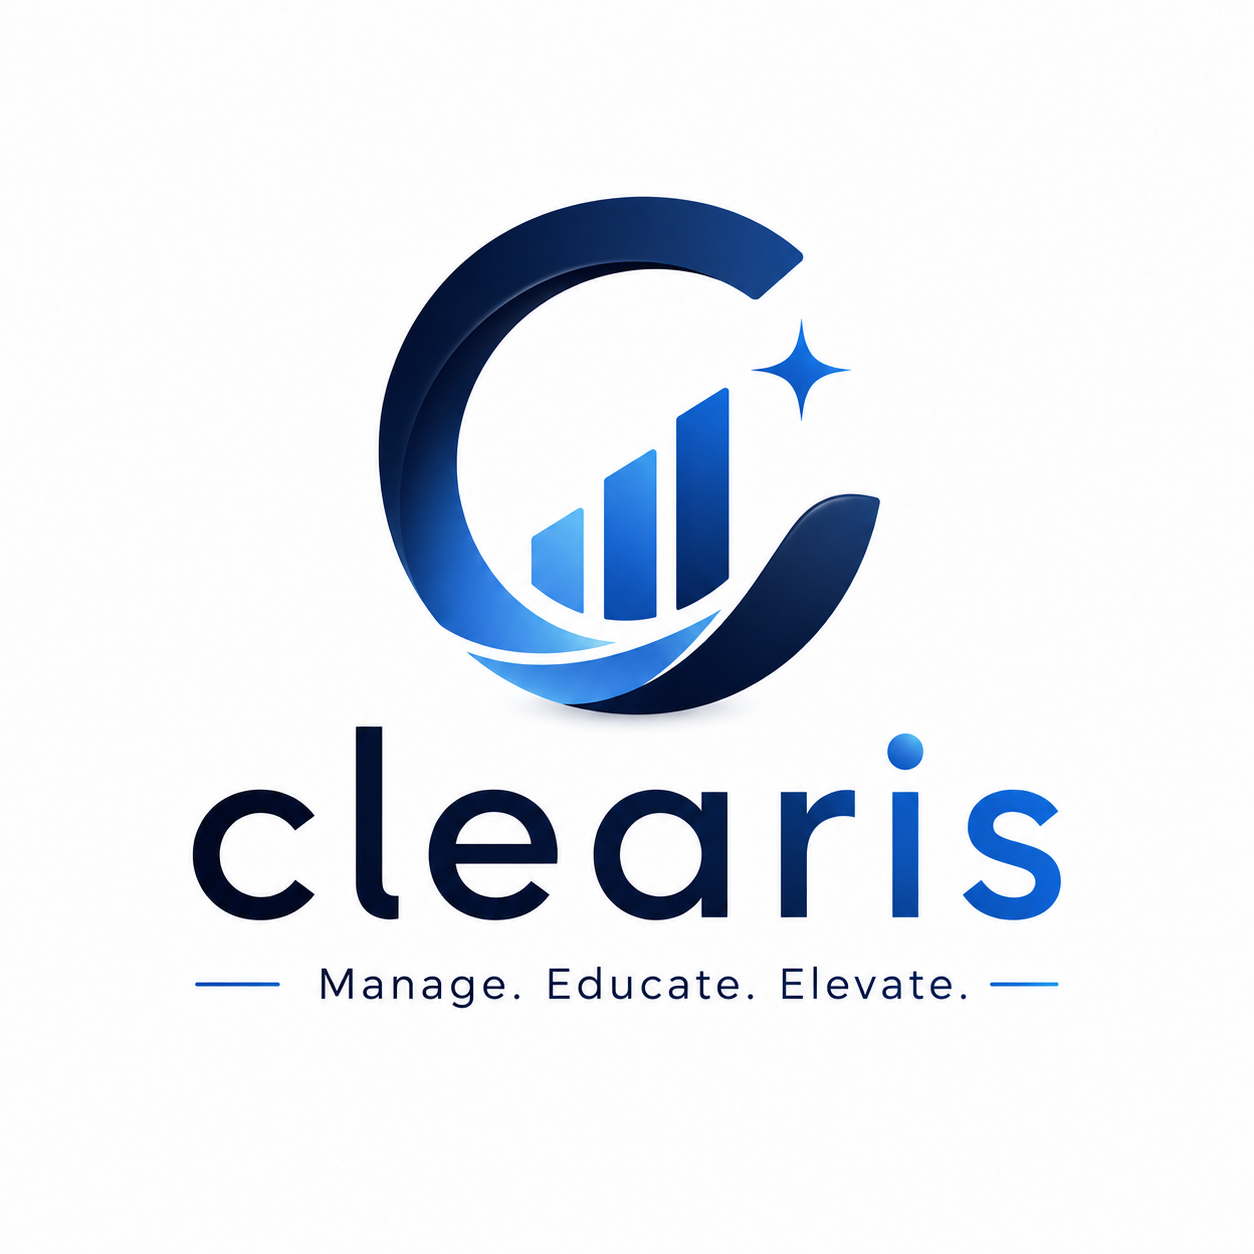
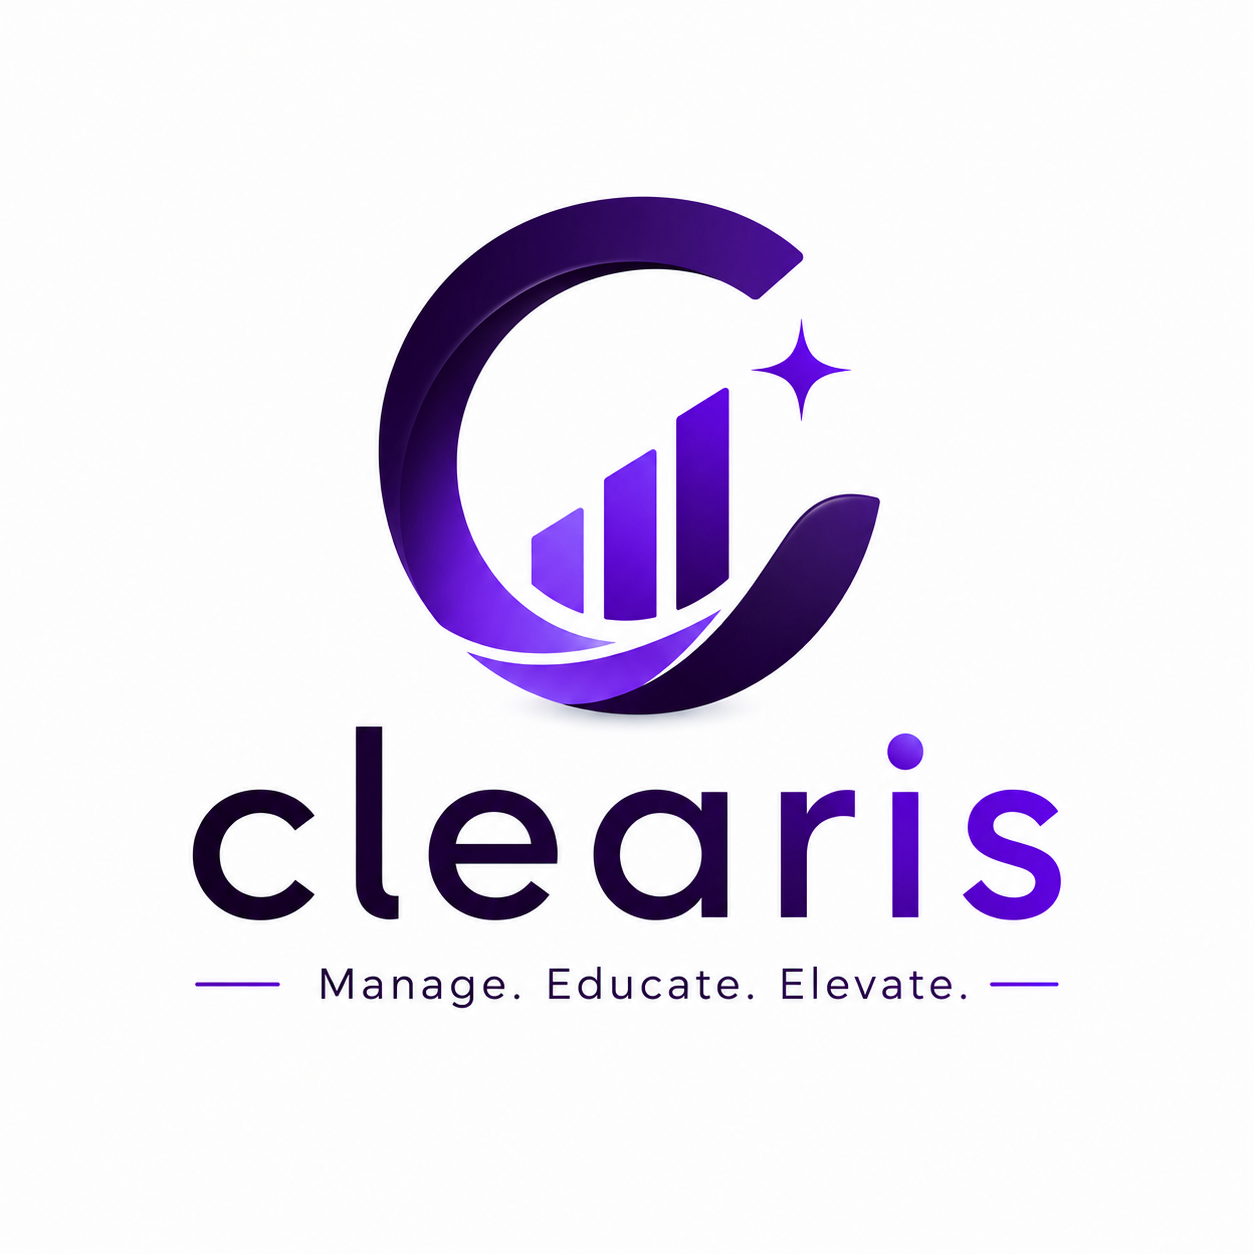
feat: rebrand Clearis to toxic violet on soft chrome
The brand was still the old institutional blue, which read as generic and made
the accent (already violet) fight the primary. Primary is now an electric
violet with cool chrome neutrals, so hover surfaces and edges carry the
"softchrome" half of the palette while violet does the signalling. The logo
marks were rendered in the old blue, so their hue was remapped onto the new
anchor — same dimensions, shading and alpha, different colour.

🤖 Generated with Codebuff

diff --git a/apps/web/src/app/globals.css b/apps/web/src/app/globals.css
@@ -4,53 +4,53 @@
 
 @layer base {
   :root {
-    /* ─── Premium Light Mode — Sophisticated Neutrals ─── */
+    /* ─── Premium Light Mode — Soft Chrome ─── */
     --background: 0 0% 100%;
-    --background-subtle: 240 10% 98%;
-    --background-muted: 240 10% 96%;
-    --foreground: 240 12% 12%;
-    --foreground-secondary: 240 8% 30%;
-    --foreground-tertiary: 240 6% 42%;
-    --foreground-muted: 240 5% 56%;
+    --background-subtle: 218 24% 98%;
+    --background-muted: 218 22% 96%;
+    --foreground: 224 24% 11%;
+    --foreground-secondary: 224 14% 30%;
+    --foreground-tertiary: 224 10% 43%;
+    --foreground-muted: 222 9% 56%;
 
     /* ─── Surfaces ─── */
     --card: 0 0% 100%;
-    --card-foreground: 240 12% 12%;
+    --card-foreground: 224 24% 11%;
 
-    /* ─── Brand — Strategic Clearis Blue ─── */
-    --primary: 221 83% 50%;
+    /* ─── Brand — Toxic Violet ─── */
+    --primary: 262 84% 52%;
     --primary-foreground: 0 0% 100%;
-    --primary-hover: 221 83% 45%;
-    --primary-subtle: 221 83% 96%;
-    --primary-border: 221 83% 88%;
+    --primary-hover: 262 84% 46%;
+    --primary-subtle: 262 90% 96%;
+    --primary-border: 262 84% 88%;
 
-    /* ─── Secondary ─── */
-    --secondary: 240 8% 94%;
-    --secondary-foreground: 240 12% 12%;
-    --secondary-hover: 240 8% 90%;
-    --secondary-border: 240 8% 80%;
+    /* ─── Secondary — Chrome ─── */
+    --secondary: 218 20% 94%;
+    --secondary-foreground: 224 24% 11%;
+    --secondary-hover: 218 20% 90%;
+    --secondary-border: 218 18% 80%;
 
     /* ─── Muted ─── */
-    --muted: 240 8% 94%;
-    --muted-foreground: 240 8% 32%;
-    --muted-hover: 240 8% 90%;
+    --muted: 218 20% 95%;
+    --muted-foreground: 224 12% 34%;
+    --muted-hover: 218 20% 91%;
 
-    /* ─── Accent ─── */
-    --accent: 270 70% 60%;
-    --accent-foreground: 0 0% 100%;
-    --accent-hover: 270 70% 55%;
-    --accent-subtle: 270 70% 96%;
+    /* ─── Accent — Soft Chrome highlight (hover surfaces) ─── */
+    --accent: 218 22% 90%;
+    --accent-foreground: 224 24% 20%;
+    --accent-hover: 218 22% 85%;
+    --accent-subtle: 218 24% 96%;
 
     /* ─── Destructive ─── */
-    --destructive: 0 84% 60%;
+    --destructive: 0 84% 58%;
     --destructive-foreground: 0 0% 100%;
-    --destructive-hover: 0 84% 55%;
+    --destructive-hover: 0 84% 52%;
 
     /* ─── Semantic ─── */
-    --success: 142 71% 45%;
+    --success: 152 62% 40%;
     --success-foreground: 0 0% 100%;
-    --success-subtle: 142 71% 96%;
-    --success-border: 142 71% 88%;
+    --success-subtle: 152 62% 96%;
+    --success-border: 152 62% 87%;
 
     --warning: 38 92% 50%;
     --warning-foreground: 0 0% 100%;
@@ -62,42 +62,42 @@
     --error-subtle: 0 84% 96%;
     --error-border: 0 84% 88%;
 
-    --info: 217 91% 60%;
+    --info: 210 90% 52%;
 
-    /* ─── Borders & Inputs ─── */
-    --border: 240 10% 84%;
-    --border-strong: 240 10% 70%;
-    --border-subtle: 240 10% 90%;
-    --input: 240 10% 80%;
-    --ring: 221 83% 53%;
+    /* ─── Borders & Inputs — Chrome edge ─── */
+    --border: 218 18% 85%;
+    --border-strong: 218 16% 70%;
+    --border-subtle: 218 20% 91%;
+    --input: 218 18% 80%;
+    --ring: 262 84% 55%;
 
     /* ─── Radius — Restrained ─── */
     --radius: 0.5rem;
 
     /* ─── Rail — Elegant Slim Bar ─── */
-    --rail: 240 10% 98%;
-    --rail-foreground: 240 12% 12%;
-    --rail-muted: 240 8% 32%;
-    --rail-active-bg: 221 83% 53%;
+    --rail: 218 24% 98%;
+    --rail-foreground: 224 24% 11%;
+    --rail-muted: 224 12% 34%;
+    --rail-active-bg: 262 84% 52%;
     --rail-active-fg: 0 0% 100%;
-    --rail-border: 240 10% 84%;
+    --rail-border: 218 18% 85%;
 
     /* ─── Panel — Clean Expandable Nav ─── */
     --panel: 0 0% 100%;
-    --panel-foreground: 240 12% 12%;
-    --panel-muted: 240 8% 32%;
-    --panel-border: 240 10% 84%;
-    --panel-hover: 240 10% 94%;
-    --panel-active-bg: 221 83% 53%;
+    --panel-foreground: 224 24% 11%;
+    --panel-muted: 224 12% 34%;
+    --panel-border: 218 18% 85%;
+    --panel-hover: 218 22% 94%;
+    --panel-active-bg: 262 84% 52%;
     --panel-active-fg: 0 0% 100%;
 
-    /* ─── Charts — Premium Palette ─── */
-    --chart-1: 221 83% 53%;
-    --chart-2: 142 71% 45%;
+    /* ─── Charts — Violet anchor, chrome cool-down ─── */
+    --chart-1: 262 84% 55%;
+    --chart-2: 152 62% 42%;
     --chart-3: 38 92% 50%;
-    --chart-4: 346 77% 50%;
-    --chart-5: 280 65% 60%;
-    --chart-6: 199 89% 48%;
+    --chart-4: 330 78% 55%;
+    --chart-5: 285 78% 60%;
+    --chart-6: 200 82% 48%;
 
     /* ─── Light Mode Shadows — Subtle for elevation ─── */
     --shadow-sm: 0 1px 2px 0 rgba(0, 0, 0, 0.08);
@@ -114,15 +114,15 @@
   }
 
   .dark {
-    /* ─── Premium Dark Mode — Deep & Elegant ─── */
-    --background: 240 10% 7%;
-    --background-subtle: 240 10% 9%;
-    --background-muted: 240 10% 11%;
-    --background-elevated: 240 10% 13%;
-    --foreground: 240 10% 98%;
-    --foreground-secondary: 240 8% 82%;
-    --foreground-tertiary: 240 6% 68%;
-    --foreground-muted: 240 5% 50%;
+    /* ─── Premium Dark Mode — Deep Chrome ─── */
+    --background: 224 24% 7%;
+    --background-subtle: 224 24% 9%;
+    --background-muted: 224 22% 11%;
+    --background-elevated: 224 20% 13%;
+    --foreground: 220 24% 98%;
+    --foreground-secondary: 220 14% 84%;
+    --foreground-tertiary: 220 10% 68%;
+    --foreground-muted: 220 9% 54%;
 
     /* ─── Dark Mode Shadows — Stronger for same elevation perception ─── */
     --shadow-sm: 0 1px 3px 0 rgba(0, 0, 0, 0.25);
@@ -137,32 +137,32 @@
     --shadow-elevated: 0 12px 36px -6px rgba(0, 0, 0, 0.45), 0 4px 8px -4px rgba(0, 0, 0, 0.25);
     --shadow-panel: 4px 0 32px -4px rgba(0, 0, 0, 0.4);
 
-    --card: 240 10% 13%;
-    --card-foreground: 240 10% 98%;
+    --card: 224 20% 13%;
+    --card-foreground: 220 24% 98%;
 
-    /* ─── Brand — Brighter in Dark ─── */
-    --primary: 221 83% 58%;
+    /* ─── Brand — Brighter Toxic Violet in Dark ─── */
+    --primary: 262 88% 60%;
     --primary-foreground: 0 0% 100%;
-    --primary-hover: 221 83% 63%;
-    --primary-subtle: 221 83% 15%;
-    --primary-border: 221 83% 25%;
+    --primary-hover: 262 88% 66%;
+    --primary-subtle: 262 55% 16%;
+    --primary-border: 262 55% 26%;
 
     /* ─── Secondary ─── */
-    --secondary: 240 8% 20%;
-    --secondary-foreground: 240 10% 98%;
-    --secondary-hover: 240 8% 25%;
-    --secondary-border: 240 8% 34%;
+    --secondary: 224 18% 20%;
+    --secondary-foreground: 220 24% 98%;
+    --secondary-hover: 224 18% 25%;
+    --secondary-border: 224 16% 34%;
 
     /* ─── Muted ─── */
-    --muted: 240 8% 20%;
-    --muted-foreground: 240 8% 80%;
-    --muted-hover: 240 8% 25%;
+    --muted: 224 18% 21%;
+    --muted-foreground: 220 12% 80%;
+    --muted-hover: 224 18% 26%;
 
-    /* ─── Accent ─── */
-    --accent: 270 70% 65%;
-    --accent-foreground: 0 0% 100%;
-    --accent-hover: 270 70% 70%;
-    --accent-subtle: 270 70% 15%;
+    /* ─── Accent — Soft Chrome highlight ─── */
+    --accent: 224 16% 24%;
+    --accent-foreground: 220 24% 96%;
+    --accent-hover: 224 16% 29%;
+    --accent-subtle: 224 18% 16%;
 
     /* ─── Destructive ─── */
     --destructive: 0 84% 65%;
@@ -170,13 +170,13 @@
     --destructive-hover: 0 84% 70%;
 
     /* ─── Semantic ─── */
-    --success: 142 71% 50%;
-    --success-foreground: 240 10% 7%;
-    --success-subtle: 142 71% 15%;
-    --success-border: 142 71% 25%;
+    --success: 152 62% 48%;
+    --success-foreground: 224 24% 7%;
+    --success-subtle: 152 62% 15%;
+    --success-border: 152 62% 25%;
 
     --warning: 38 92% 55%;
-    --warning-foreground: 240 10% 7%;
+    --warning-foreground: 224 24% 7%;
     --warning-subtle: 38 92% 15%;
     --warning-border: 38 92% 25%;
 
@@ -185,39 +185,39 @@
     --error-subtle: 0 84% 15%;
     --error-border: 0 84% 25%;
 
-    --info: 217 91% 60%;
+    --info: 210 90% 58%;
 
-    /* ─── Borders & Inputs — Subtle ─── */
-    --border: 240 10% 26%;
-    --border-strong: 240 10% 36%;
-    --border-subtle: 240 10% 20%;
-    --input: 240 10% 30%;
-    --ring: 221 83% 58%;
+    /* ─── Borders & Inputs — Chrome edge ─── */
+    --border: 224 16% 26%;
+    --border-strong: 224 14% 36%;
+    --border-subtle: 224 18% 20%;
+    --input: 224 16% 30%;
+    --ring: 262 88% 62%;
 
     /* ─── Rail — Dark Elegant ─── */
-    --rail: 240 10% 9%;
-    --rail-foreground: 240 10% 98%;
-    --rail-muted: 240 8% 80%;
-    --rail-active-bg: 221 83% 58%;
+    --rail: 224 24% 9%;
+    --rail-foreground: 220 24% 98%;
+    --rail-muted: 220 12% 80%;
+    --rail-active-bg: 262 88% 60%;
     --rail-active-fg: 0 0% 100%;
-    --rail-border: 240 10% 26%;
+    --rail-border: 224 16% 26%;
 
     /* ─── Panel — Dark Sophisticated ─── */
-    --panel: 240 10% 11%;
-    --panel-foreground: 240 10% 98%;
-    --panel-muted: 240 8% 80%;
-    --panel-border: 240 10% 26%;
-    --panel-hover: 240 10% 18%;
-    --panel-active-bg: 221 83% 58%;
+    --panel: 224 22% 12%;
+    --panel-foreground: 220 24% 98%;
+    --panel-muted: 220 12% 80%;
+    --panel-border: 224 16% 26%;
+    --panel-hover: 224 18% 19%;
+    --panel-active-bg: 262 88% 60%;
     --panel-active-fg: 0 0% 100%;
 
     /* ─── Charts ─── */
-    --chart-1: 221 83% 58%;
-    --chart-2: 142 71% 50%;
+    --chart-1: 262 88% 62%;
+    --chart-2: 152 62% 50%;
     --chart-3: 38 92% 55%;
-    --chart-4: 346 77% 55%;
-    --chart-5: 280 65% 65%;
-    --chart-6: 199 89% 53%;
+    --chart-4: 330 78% 60%;
+    --chart-5: 285 78% 65%;
+    --chart-6: 200 82% 53%;
   }
 }
 
